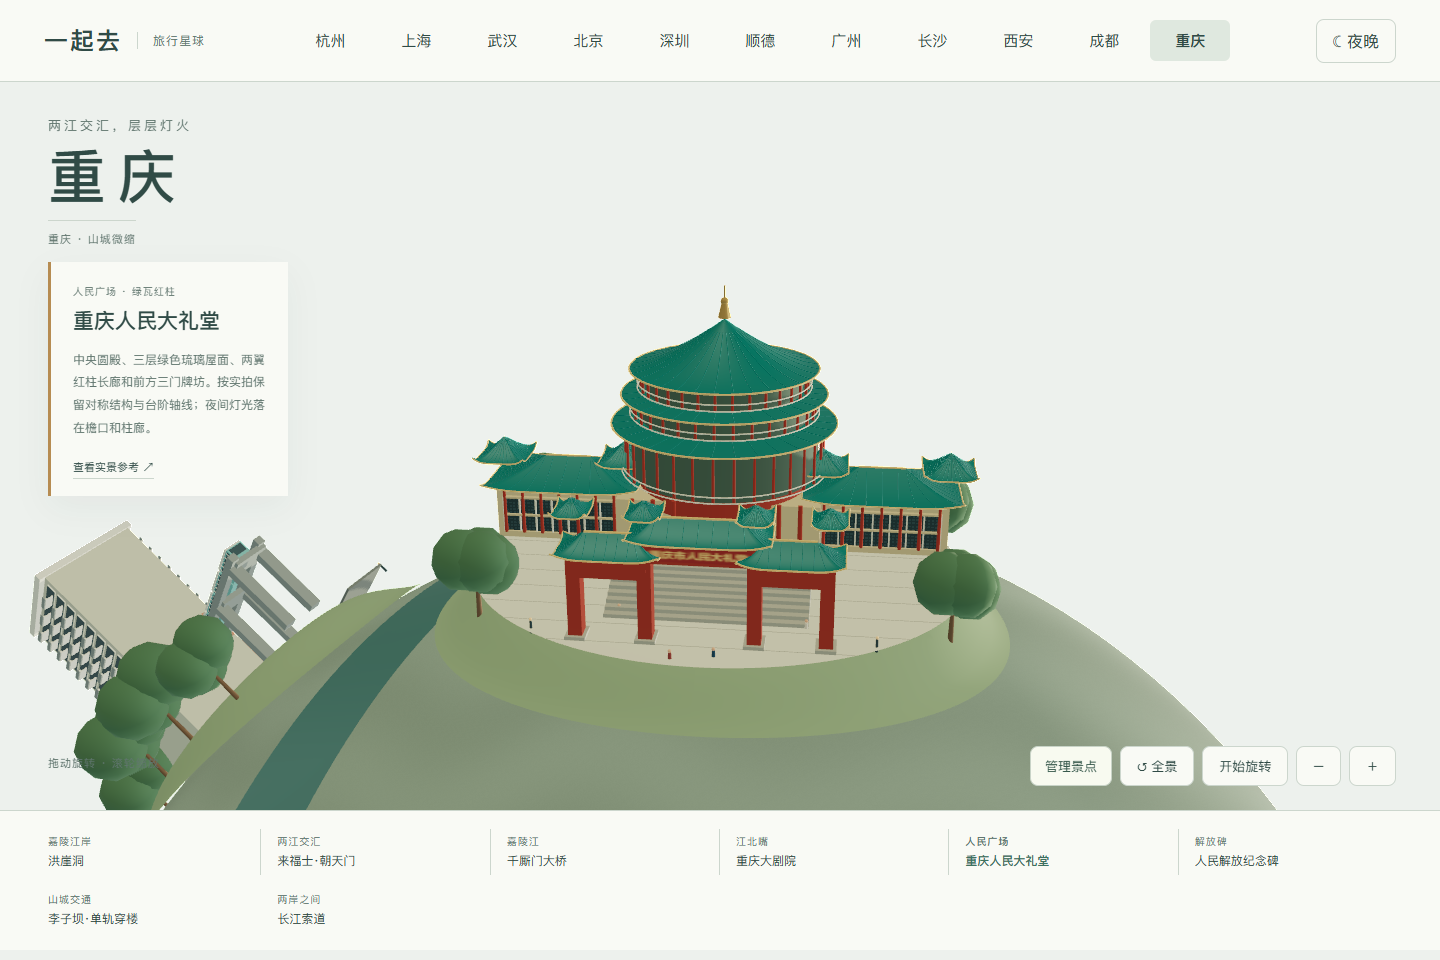
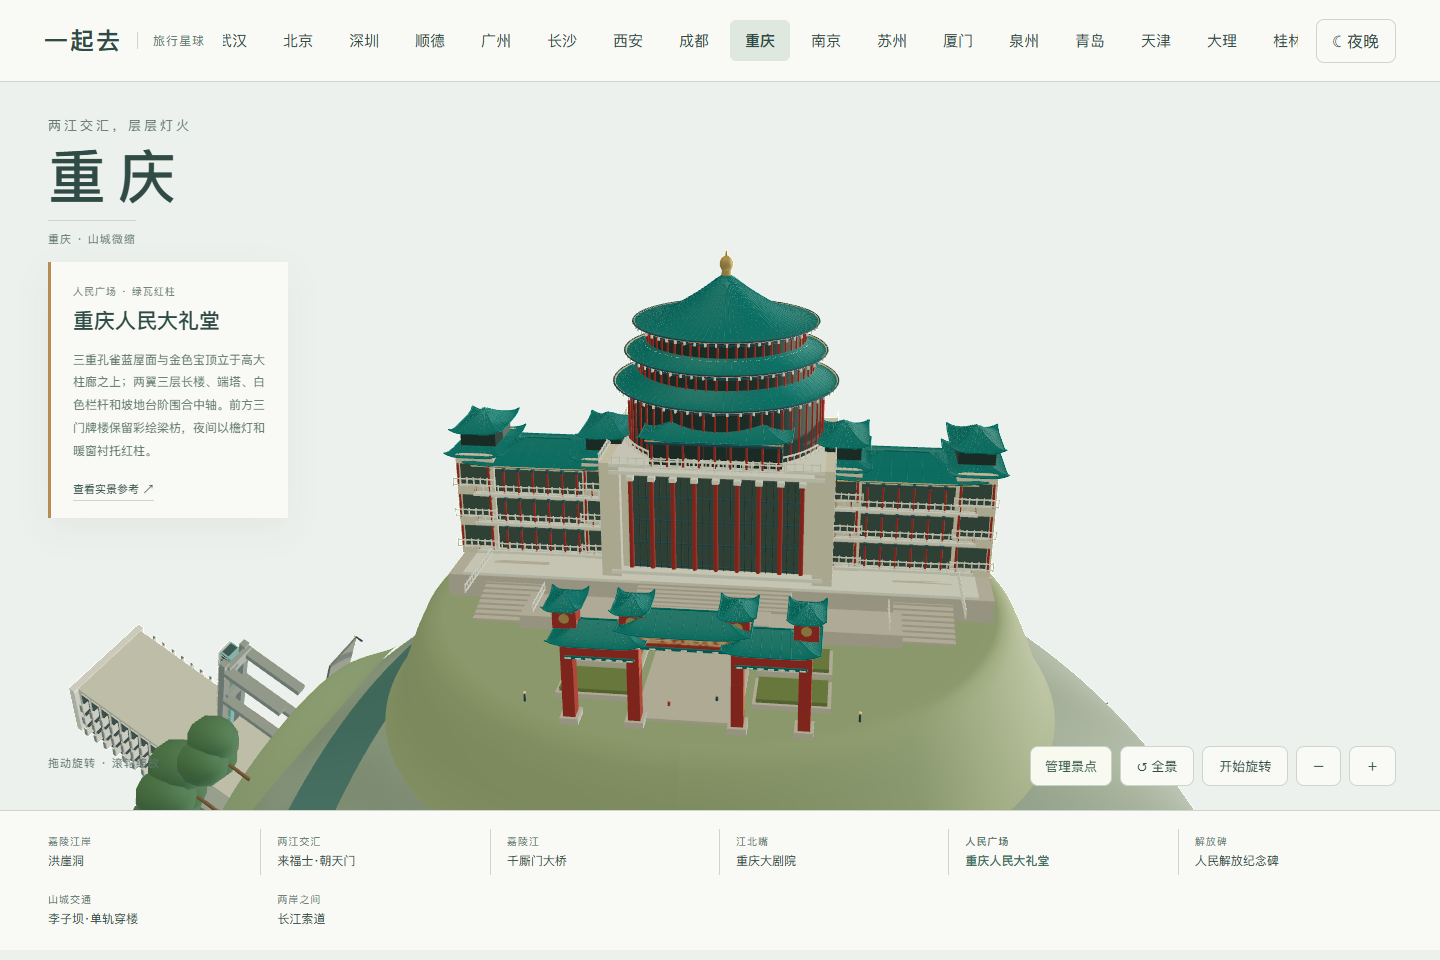
Refine Chongqing auditorium colonnades, terraces and roof silhouette

diff --git a/web/chongqing-hall.js b/web/chongqing-hall.js
@@ -1,0 +1,88 @@
+import * as THREE from 'three';
+import {TAU,disc,skin,hip,sign,finish} from './chongqing-kit.js';
+
+// The auditorium is a tall terraced hall with three circular eaves, not a pavilion.
+export function greatHall(k){
+ const g=new THREE.Group(),p={land:k.mat('#8e9e78',.98),stone:k.mat('#b5b1a1',.92),wall:k.mat('#cec7ae',.9),white:k.mat('#d6d7c6',.88),red:k.mat('#a34232',.82),teal:k.mat('#257a76',.64,.16),blue:k.mat('#365b65',.8),dark:k.mat('#344944',.7),gold:k.mat('#b49a5f',.55,.28),leaf:k.mat('#70804c',.95)};
+ p.land.userData.landscape=true;
+ p.teal.userData.night={color:new THREE.Color('#83afa0'),intensity:.10};
+ const glow=k.mat('#ceb480',.68,.1,'#efcf96');glow.userData.night.intensity=.56;
+ const panes=k.mat('#50635a',.48,.1,'#e2bb7a');panes.userData.night.intensity=.23;panes.userData.pulse={phase:.8,speed:.25};
+ const ground=(x,z)=>{const t=THREE.MathUtils.smoothstep(Math.hypot(x/1.13,z/1.12),.83,1),sag=2.15-Math.sqrt(Math.max(.001,2.15**2-x*x-z*z));return .014*(1-t)-sag*t+.002;};
+ disc(k,g,1.13,1.12,ground,p.land);
+ const rail=(a,b,y)=>{const n=Math.ceil(Math.hypot(b[0]-a[0],b[1]-a[1])/.027);k.beam(g,[a[0],y+.027,a[1]],[b[0],y+.027,b[1]],.0021,p.white);k.beam(g,[a[0],y+.005,a[1]],[b[0],y+.005,b[1]],.0025,p.white);for(let i=0;i<=n;i++){const t=i/n;k.box(g,.0035,.032,.0035,p.white,a[0]+(b[0]-a[0])*t,y+.016,a[1]+(b[1]-a[1])*t);}};
+ const band=(r,y,z,m=p.white)=>{const o=k.ring(g,r,.003,m,y);o.position.z=z;};
+ const stair=(x,z,w,bottom,top,count,run)=>{for(let i=0;i<count;i++){const h=bottom+(top-bottom)*(i+1)/count;k.box(g,w,h-.014,run/count+.001,p.stone,x,(h+.014)/2,z-i*run/count);}return z-run;};
+ // Three ground terraces connect the ceremonial gate to the main entrance.
+ k.box(g,1.79,.078,.68,p.stone,0,.055,-.19);k.box(g,1.69,.008,.65,p.white,0,.098,-.18);
+ k.box(g,1.20,.045,.15,p.stone,0,.038,.27);k.box(g,.38,.006,.16,p.stone,0,.064,.26);
+ stair(0,.43,.38,.016,.064,7,.12);stair(0,.24,.50,.064,.102,6,.10);
+ for(const side of [-1,1]){
+  stair(side*.67,.30,.19,.016,.102,12,.27);
+  rail([side*.79,.29],[side*.79,-.01],.10);rail([side*.56,.18],[side*.56,.33],.065);
+  for(const z of [.48,.66]){k.box(g,.22,.015,.14,p.stone,side*.28,.024,z);k.box(g,.20,.012,.12,p.leaf,side*.28,.037,z);}
+ }
+ k.box(g,.29,.009,.40,p.stone,0,.020,.62);
+ // Tall central portico and the recessed hall wall behind its red columns.
+ k.box(g,.66,.39,.48,p.wall,0,.298,-.15);
+ k.box(g,.55,.32,.007,panes,0,.29,.094);
+ for(let j=0;j<=8;j++){const x=-.276+j*.069;k.cyl(g,.007,.008,.31,p.red,x,.295,.123,10);k.box(g,.022,.014,.024,p.white,x,.454,.123);}
+ for(const y of [.14,.22,.30,.38])k.box(g,.55,.003,.007,p.blue,0,y,.099);
+ for(let j=0;j<=24;j++)k.box(g,.0018,.32,.009,p.dark,-.275+j*.55/24,.29,.099);
+ for(const y of [.12,.47,.495])k.box(g,.69,.012,.53,p.white,0,y,-.14);
+ rail([-.33,.14],[.33,.14],.501);
+ for(const side of [-1,1]){
+  k.box(g,.065,.40,.54,p.wall,side*.345,.30,-.15);
+  rail([side*.376,.12],[side*.376,-.39],.501);
+ }
+ // A smaller front balcony pavilion overlaps the circular drum, as in the photos.
+ k.box(g,.42,.093,.11,p.dark,0,.553,.084);
+ for(let i=0;i<=8;i++)k.cyl(g,.0035,.004,.088,p.red,-.20+i*.05,.551,.15,8);
+ hip(k,g,.48,.18,.039,.604,p.teal,p.teal,0,.10);k.box(g,.42,.007,.012,p.blue,0,.597,.184);k.box(g,.43,.002,.003,glow,0,.604,.188);
+ rail([-.22,.17],[.22,.17],.505);
+ // Three stepped circular roof drums, with a single tall upper roof and gilt finial.
+ const cz=-.19;
+ for(const [r,bottom,top,roofR,rise,inner]of [[.325,.494,.70,.375,.047,.292],[.290,.716,.803,.336,.040,.264],[.260,.823,.900,.307,.154,.014]]){
+  k.cyl(g,r,r,top-bottom,p.dark,0,(top+bottom)/2,cz,96);
+  for(let i=0;i<56;i++){const a=i/56*TAU;k.cyl(g,.0032,.0036,top-bottom-.008,p.red,Math.sin(a)*(r+.003),(top+bottom)/2,cz+Math.cos(a)*(r+.003),6);}
+  band(r+.012,bottom+.010,cz);band(r+.012,top-.015,cz,p.blue);
+  if(bottom<.6){band(r+.020,bottom+.034,cz);for(let i=0;i<80;i++){const a=i/80*TAU;k.box(g,.003,.033,.003,p.white,Math.sin(a)*(r+.020),bottom+.017,cz+Math.cos(a)*(r+.020));}}
+  skin(k,g,(u,v)=>{const a=u*TAU,rr=inner+(roofR-inner)*v;return [Math.sin(a)*rr,top+rise*(1-v)**1.55+.005*v**9,cz+Math.cos(a)*rr];},14,120,p.teal);
+  band(roofR,top+.005,cz,p.blue);band(roofR-.003,top+.003,cz,glow);
+  for(let i=0;i<80;i++){const a=i/80*TAU;k.line(g,Array.from({length:9},(_,j)=>{const v=.05+.95*j/8,r1=inner+(roofR-inner)*v;return [Math.sin(a)*r1,top+rise*(1-v)**1.55+.005*v**9+.0007,cz+Math.cos(a)*r1];}),.00065,p.teal);}
+  for(let i=0;i<56;i++){const a=i/56*TAU;k.box(g,.006,.009,.006,p.white,Math.sin(a)*(roofR-.006),top-.007,cz+Math.cos(a)*(roofR-.006));}
+ }
+ k.cyl(g,.014,.017,.021,p.gold,0,1.063,cz,24);const finial=k.ball(g,.022,p.gold,0,1.088,cz);finial.scale.y=1.22;k.cyl(g,.002,.005,.018,p.gold,0,1.120,cz,12);
+ // Three-floor side wings end in taller double-eaved corner towers.
+ for(const side of [-1,1]){
+  const x=side*.607,w=.45;k.box(g,w,.32,.27,p.wall,x,.262,-.16);
+  for(let floor=0;floor<3;floor++){
+   const y=.16+floor*.105;k.box(g,w-.025,.079,.005,panes,x,y,-.019);
+   for(let j=0;j<=9;j++){const xx=x-w/2+j*w/9;k.cyl(g,.0035,.004,.087,p.red,xx,y,-.005,6);k.box(g,.012,.006,.016,p.blue,xx,y+.043,-.005);}
+   k.box(g,w+.012,.009,.31,p.white,x,y-.047,-.15);rail([x-w/2,-.003],[x+w/2,-.003],y-.044);
+  }
+  for(const y of [.16,.265,.37]){
+   for(const z of [-.24,-.15,-.06]){k.box(g,.003,.065,.035,p.dark,side*.897,y,z);k.box(g,.004,.067,.002,p.white,side*.900,y,z);}
+   for(let j=0;j<7;j++){const xx=x-.18+j*.06;k.box(g,.032,.065,.003,p.dark,xx,y,-.297);k.box(g,.002,.067,.004,p.white,xx,y,-.300);}
+  }
+  hip(k,g,w+.06,.35,.047,.433,p.teal,p.teal,x,-.15);k.box(g,w,.003,.004,glow,x,.434,.024);
+  for(const tx of [side*.398,side*.83]){
+   k.box(g,.13,.36,.29,p.wall,tx,.282,-.15);
+   for(const y of [.172,.285,.397]){k.box(g,.094,.071,.006,panes,tx,y,.001);for(const sx of [-1,1])k.cyl(g,.004,.005,.080,p.red,tx+sx*.052,y,.012,8);rail([tx-.07,.016],[tx+.07,.016],y-.04);}
+   hip(k,g,.19,.33,.035,.458,p.teal,p.teal,tx,-.15);
+   for(const sx of [-1,1])for(const sz of [-1,1])k.cyl(g,.003,.004,.057,p.red,tx+sx*.052,.502,-.15+sz*.085,8);
+   k.box(g,.12,.045,.18,p.dark,tx,.498,-.15);hip(k,g,.17,.26,.055,.530,p.teal,p.teal,tx,-.15);
+  }
+ }
+ // Five-roof, three-opening gate: ornament is concentrated in blue-green beam panels.
+ const gz=.83;
+ for(const x of [-.32,-.14,.14,.32]){k.box(g,.034,.25,.043,p.red,x,.145,gz);k.box(g,.052,.018,.061,p.stone,x,.025,gz);}
+ for(const [x,w,y]of [[0,.285,.292],[-.23,.19,.251],[.23,.19,.251]]){
+  k.box(g,w,.048,.043,p.red,x,y-.012,gz);k.box(g,w,.014,.051,p.blue,x,y+.019,gz);k.box(g,w,.008,.053,p.teal,x,y-.030,gz);
+  for(let i=0;i<7;i++){const xx=x-w*.44+i*w*.88/6;k.box(g,.012,.012,.002,p.gold,xx,y+.017,gz+.027);k.box(g,.016,.003,.002,p.white,xx,y-.030,gz+.029);}
+  hip(k,g,w+.07,.16,.042,y+.034,p.teal,p.teal,x,gz);
+ }
+ for(const x of [-.32,-.14,.14,.32]){k.box(g,.065,.059,.05,p.red,x,.337,gz);k.box(g,.064,.009,.056,p.blue,x,.371,gz);hip(k,g,.10,.13,.031,.376,p.teal,p.teal,x,gz);const medal=k.mesh(g,new THREE.CircleGeometry(.014,20),p.gold,x,.337,gz+.026);medal.rotation.z=Math.PI/4;}
+ sign(k,g,'重庆市人民大礼堂',.25,.031,0,.286,gz+.024,{background:'#a14231',color:'#e1c28a'});
+ return finish(k,g,{lamps:[[-.47,.76],[.47,.76],[-.48,.32],[.48,.32],[-.91,-.12],[.91,-.12]],visitors:[[-.06,.75],[.07,.71],[-.12,.37],[.11,.31]]});
+}

diff --git a/web/chongqing-landmarks.js b/web/chongqing-landmarks.js
@@ -6,7 +6,7 @@ export const LANDMARKS=[
  {id:'raffles',name:'来福士·朝天门',area:'两江交汇 · 水晶连廊',x:1.12,z:1.09,height:1.62,distance:3.65,view:[.30,.64,1.8],description:'八座微弯塔楼以六低两高组成天际线。水晶连廊中段为玻璃展厅，两端露天花园保持通透；连接高塔的短桥、退台裙楼、屋顶花园和临江宽阶形成层次。',source:'https://www.safdiearchitects.com/projects/raffles-city-chongqing'},
  {id:'qiansimen',name:'千厮门大桥',area:'嘉陵江 · 单塔双层桥',x:-1.08,z:-.96,height:.76,distance:3.0,view:[.30,.65,1.8],description:'白色天梭形独塔、单索面斜拉索、金红色钢桁架与上下两层桥面。按设计单位照片区分千厮门独塔和东水门双塔，不混用两座桥。',source:'https://www.cmct.cn/index.php?c=show&id=557'},
  {id:'theatre',name:'重庆大剧院',area:'江北嘴 · 浅绿玻璃',x:1.20,z:-1.15,height:.74,distance:3.55,view:[.55,.75,1.8],description:'浅玉色玻璃沿长轴折叠，两座高低舞台体量嵌入层层前伸的壳体。石台、宽阶、凹入门厅与倾斜构架相连；夜间以玻璃透光衬托深色窄窗和折面。',source:'https://www.gmp.de/en/projects/472/chongqing-grand-theater'},
- {id:'greatHall',name:'重庆人民大礼堂',area:'人民广场 · 绿瓦红柱',x:-1.06,z:.94,hemisphere:-1,height:.79,distance:3.05,view:[.20,.65,1.8],description:'中央圆殿、三层绿色琉璃屋面、两翼红柱长廊和前方三门牌坊。按实拍保留对称结构与台阶轴线；夜间灯光落在檐口和柱廊。',source:'https://www.hlhbsc.org/spot_detail.aspx?city=22&spot=1009'},
+ {id:'greatHall',name:'重庆人民大礼堂',area:'人民广场 · 绿瓦红柱',x:-1.25,z:1.13,hemisphere:-1,height:1.15,distance:3.75,view:[.20,.65,1.8],description:'三重孔雀蓝屋面与金色宝顶立于高大柱廊之上；两翼三层长楼、端塔、白色栏杆和坡地台阶围合中轴。前方三门牌楼保留彩绘梁枋，夜间以檐灯和暖窗衬托红柱。',source:'https://www.cq.gov.cn/zjcq/cycq/jplyxl/dsy/dsjp/202608/t20260826_15982334.html'},
  {id:'monument',name:'人民解放纪念碑',area:'解放碑 · 八角钟楼',x:1.05,z:.91,hemisphere:-1,height:.84,distance:2.65,view:[.30,.65,1.8],description:'浅米色八角碑体、竖向金色线脚、四面时钟与透空冠部。保留碑身题字和围绕基座的花坛，呈现纪念碑本体，不用普通商业楼填满广场。',source:'https://www.cq.gov.cn/zjcq/cycq/jplyxl/dsy/dsjp/202608/t20260826_15982337.html'},
  {id:'liziba',name:'李子坝·单轨穿楼',area:'山城交通 · 楼中车站',x:-1.08,z:-.94,hemisphere:-1,height:.88,distance:2.85,view:[-.80,.64,1.8],description:'车站层留出真实通道，双线轨道从住宅楼中穿过；淡灰与浅橙立面保留阳台、空调和层间横线。青绿色列车是实拍中出现过的涂装，并非实时运营车辆。',source:'https://hk.trip.com/moments/detail/chongqing-158-136314677/'},
  {id:'cableway',name:'长江索道',area:'两岸之间 · 空中走廊',x:1.10,z:-.94,hemisphere:-1,height:.55,distance:2.9,view:[.40,.70,1.8],description:'两岸站房、下垂的钢索、悬挂支架和黄色大窗轿厢。参照历史实拍提炼黄色涂装，保留双向运行的空间关系；这里不显示实时班次和票价。',source:'https://you.ctrip.com/sight/chongqing158/109940.html'},

diff --git a/web/chongqing-culture.js b/web/chongqing-culture.js
@@ -1,24 +1,6 @@
 import * as THREE from 'three';
 import {TAU,palette,site,paving,steps,hip,skin,glow,sign,finish,facade,prism,grove} from './chongqing-kit.js';
-export function greatHall(k){
- const g=new THREE.Group(),p=palette(k),height=site(k,g,.79,.65);paving(k,g,p,.67,.55);const wall=k.mat('#c7b78c',.9),roof=k.mat('#267d72',.52),trim=glow(k,'#dbbd79',.65,.3,.36),r=.25;
- k.box(g,.54,.14,.37,wall,0,.16,-.11);k.cyl(g,.234,.234,.19,p.red,0,.292,-.11,72);
- for(const [radius,y,h]of [[.307,.40,.055],[.279,.48,.050],[.255,.55,.13]]){
-  skin(k,g,(u,v)=>{const a=u*TAU,rr=.002+(radius-.002)*v;return [Math.sin(a)*rr,y+h*(1-v)**1.5,-.11+Math.cos(a)*rr];},14,96,roof);const ring=k.ring(g,radius,.0025,trim,y);ring.position.z=-.11;
-  const bodyHeight=y===.40?.14:.06,rr=radius*.83;k.cyl(g,rr,rr,bodyHeight,k.mat('#566c5b',.8),0,y-bodyHeight/2,-.11,64);
-  for(let i=0;i<32;i++){const a=i/32*TAU;k.cyl(g,.0032,.004,bodyHeight-.008,p.red,Math.sin(a)*radius*.88,y-bodyHeight/2,-.11+Math.cos(a)*radius*.88,8);k.line(g,Array.from({length:7},(_,j)=>{const v=.15+.85*j/6;return [Math.sin(a)*radius*v,y+h*(1-v)**1.5+.001,-.11+Math.cos(a)*radius*v];}),.001,roof);}
-  for(const offset of [bodyHeight-.009,bodyHeight-.026]){const rail=k.ring(g,radius*.92,.0018,p.pale,y-offset);rail.position.z=-.11;}
- }
- k.cyl(g,.008,.017,.04,p.gold,0,.704,-.11,12);k.ball(g,.010,p.gold,0,.728,-.11);k.beam(g,[0,.732,-.11],[0,.77,-.11],.0015,p.gold);
- for(const side of [-1,1]){k.box(g,.35,.14,.23,wall,side*.43,.16,-.08);hip(k,g,.42,.29,.055,.235,roof,trim,side*.43,-.08);for(let j=0;j<7;j++)k.cyl(g,.004,.005,.12,p.red,side*.43-.15+j*.05,.17,.047,8);facade(k,g,.31,.10,side*.43,.16,.039,wall,p.pale,{bays:7,rows:2});for(const x of [side*.27,side*.61])hip(k,g,.14,.15,.055,.285,roof,trim,x,-.08);}
- for(let i=0;i<9;i++)k.cyl(g,.006,.007,.15,p.red,-.22+i*.055,.17,.105,10);steps(k,g,p,0,.33,.51,9,.09,.18);
- // Three open ceremonial portals with five staggered roof caps.
- const gy=.21,gz=.43;for(const x of [-.30,-.13,.13,.30]){k.box(g,.034,.22,.042,p.red,x,.13,gz);k.box(g,.050,.012,.06,p.stone,x,.023,gz);}
- for(const [x,w,y]of [[0,.27,.275],[-.215,.18,.23],[.215,.18,.23]]){k.box(g,w,.049,.044,p.red,x,y-.022,gz);k.box(g,w,.008,.050,p.green,x,y+.008,gz);hip(k,g,w+.07,.13,.046,y+.018,roof,trim,x,gz);}
- for(const x of [-.30,-.13,.13,.30])hip(k,g,.085,.10,.035,.345,roof,trim,x,gz);
- sign(k,g,'重庆市人民大礼堂',.25,.035,0,.255,gz+.026,{background:'#a43e31',color:'#e4c37b'});grove(k,g,height,[[-.61,.23,.18],[.61,.23,.18],[-.58,-.31,.20],[.58,-.31,.20]]);
- return finish(k,g,{lamps:[[-.42,.41],[.42,.41],[-.55,.10],[.55,.10]],visitors:[[-.06,.52],[.04,.50],[.25,.34],[-.22,.31]]});
-}
+export {greatHall} from "./chongqing-hall.js";
 export function monument(k){
  const g=new THREE.Group(),p=palette(k);site(k,g,.58,.53);paving(k,g,p,.49,.44);const wall=k.mat('#d9ceab',.9),accent=k.mat('#b89858',.58,.24),dark=k.mat('#4c625d',.7);
  k.cyl(g,.18,.20,.025,p.stone,0,.035,0,64);k.cyl(g,.104,.133,.075,wall,0,.078,0,8);k.cyl(g,.072,.099,.48,wall,0,.35,0,8);k.cyl(g,.084,.078,.042,wall,0,.61,0,8);k.cyl(g,.105,.105,.018,p.pale,0,.639,0,8);

diff --git a/README.md b/README.md
@@ -1,6 +1,6 @@
 # 一起去 · Travel Planet
 
-用可旋转的 3D 城市星球发现景点，再和朋友一起决定怎么旅行。当前版本 **0.55.32**，支持桌面和手机网页。
+用可旋转的 3D 城市星球发现景点，再和朋友一起决定怎么旅行。当前版本 **0.55.33**，支持桌面和手机网页。
 
 **[上海旅行 · 在线体验](https://43.139.249.151/travel/shanghai-trip.html)** · **[杭州旅行](https://43.139.249.151/travel/)** · **[武汉旅行](https://43.139.249.151/travel/wuhan-trip.html)** · **[武汉纯地图](https://43.139.249.151/travel/wuhan.html)** · **[上海纯地图](https://43.139.249.151/travel/shanghai.html)** · **[北京地图](https://43.139.249.151/travel/beijing.html)** · **[深圳地图](https://43.139.249.151/travel/shenzhen.html)** · **[顺德地图](https://43.139.249.151/travel/shunde.html)** · **[广州地图](https://43.139.249.151/travel/guangzhou.html)** · **[长沙地图](https://43.139.249.151/travel/changsha.html)** · **[西安地图](https://43.139.249.151/travel/xian.html)** · **[成都地图](https://43.139.249.151/travel/chengdu.html)** · **[重庆地图](https://43.139.249.151/travel/chongqing.html)** · **[南京地图](https://43.139.249.151/travel/nanjing.html)** · **[苏州地图](https://43.139.249.151/travel/suzhou.html)** · **[厦门地图](https://43.139.249.151/travel/xiamen.html)** · **[泉州地图](https://43.139.249.151/travel/quanzhou.html)** · **[青岛地图](https://43.139.249.151/travel/qingdao.html)** · **[天津地图](https://43.139.249.151/travel/tianjin.html)** · **[大理地图](https://43.139.249.151/travel/dali.html)** · **[桂林地图](https://43.139.249.151/travel/guilin.html)** · **[三亚地图](https://43.139.249.151/travel/sanya.html)** · **[香港地图](https://43.139.249.151/travel/hongkong.html)** · **[澳门地图](https://43.139.249.151/travel/macau.html)**
 
@@ -130,3 +130,5 @@ npm run check
 来福士已补齐两端露天花园、连接高塔的短桥、弯曲楼身、退台裙楼和分层夜景；参见[重庆参考与画面](docs/CHONGQING_REFERENCES.md)。
 
 重庆大剧院已按设计方实拍细化玻璃折面、前后高低舞台体量、凹入门厅和分层透光夜景，参见[重庆参考与画面](docs/CHONGQING_REFERENCES.md)。
+
+人民大礼堂已细化高大柱廊、三层翼楼、端塔、白色栏杆、牌楼与连续台阶，保持蓝绿屋面和分层夜景；参见[重庆实拍参考与模型](docs/CHONGQING_REFERENCES.md)。

diff --git a/docs/TESTING.md b/docs/TESTING.md
@@ -400,3 +400,9 @@ python tools/travel-flow-check.py
 352 项完整测试、357 项语法检查通过，含 6 项重庆专项。新增结构检查覆盖两座高低舞台体量、玻璃板缝坐标、真实凹入入口、贴合斜面的窄窗和九级台阶及上层平台。原有落地、两半球间距、日夜原色、动画与资源释放检查继续通过。
 
 2026-11-04 20:38—20:40，隔离内存服务与无头浏览器完成八组取景、日夜正侧背、320/390 画面、整组增删与刷新、触控缩放拖动、键盘、五种宽度和 WebGL 恢复。关键截图直接核看，异常和业务写入均为 0。手机为浏览器模拟。草稿阶段发现并修复玻璃合并后板缝丢失、板缝闪点、夜间层次不足及斜面窄窗悬空，不以早期草稿代替验收结果。
+
+## 0.55.33 重庆人民大礼堂
+
+353 项完整测试、358 项语法检查通过，含 7 项重庆专项。新增检查确认三处牌楼开口可通行，中央步道与多级台地连续连接且无突兀高差；双半球间距、球面落地、原色保持、动画与资源释放继续通过。
+
+2026-11-04 21:00—21:03，本地无头浏览器完成八组取景、日夜正侧背、320/390、整组管理与刷新、触控缩放拖动、键盘、五种宽度及 WebGL 恢复。关键截图直接核看，页面异常与业务写入均为 0，手机为浏览器模拟。两轮草稿中修正侧墙空白和屋顶夜间过暗，降低瓦垄密度；不以单张正面图代替交互验收。

diff --git a/docs/CHONGQING_REFERENCES.md b/docs/CHONGQING_REFERENCES.md
@@ -57,3 +57,15 @@
 ![玻璃折面与窄窗](images/chongqing-theatre-oblique.png)
 
 ![重庆大剧院夜景](images/chongqing-theatre-night.png)
+
+## 人民大礼堂细化（0.55.33）
+
+对照[重庆市政府的正面、侧面与广场实拍](https://www.cq.gov.cn/zjcq/cycq/jplyxl/dsy/dsjp/202608/t20260826_15982334.html)和[重庆市文旅委的正面近照](https://whlyw.cq.gov.cn/zjwl/yzq/cqwlzy/zqwwzy/202405/t20240514_13203775.html)，将原先压扁的亭式体量改为高大入口柱廊、上部三重琉璃屋面和金色宝顶。补齐两翼三层长楼、双檐端塔、白色栏杆、门厅小阁与侧后窗。前方三门牌楼有错落屋顶和彩绘梁枋；台地、中央宽阶及两侧阶梯连续连接。
+
+夜景保留孔雀蓝屋面与红柱，以暖窗、细檐灯和庭灯分层，屋面仅作微弱补光。现场照片不是深夜灯光秀，夜景为产品照明设计；不用于推断实际开放时段。模型压缩了广场距离，仍属实拍特征的艺术化缩微，摄影作品不公开打包。
+
+![人民大礼堂日景](images/chongqing-great-hall.png)
+
+![三层翼楼与台地](images/chongqing-great-hall-oblique.png)
+
+![人民大礼堂夜景](images/chongqing-great-hall-night.png)
